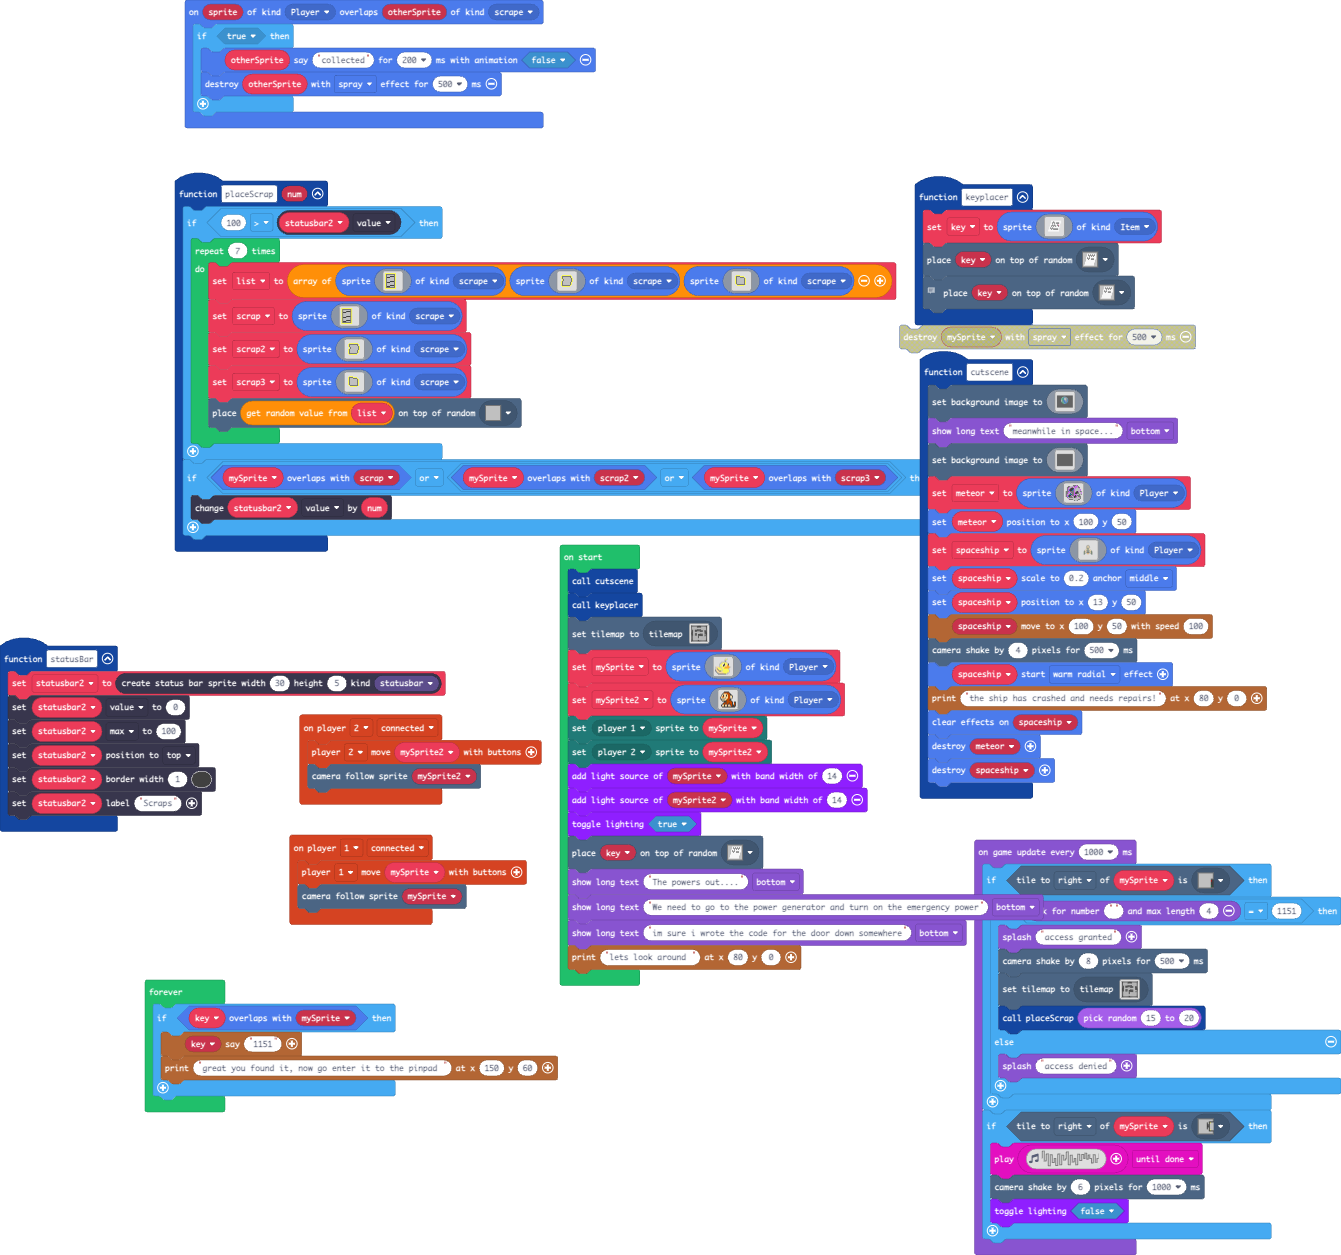
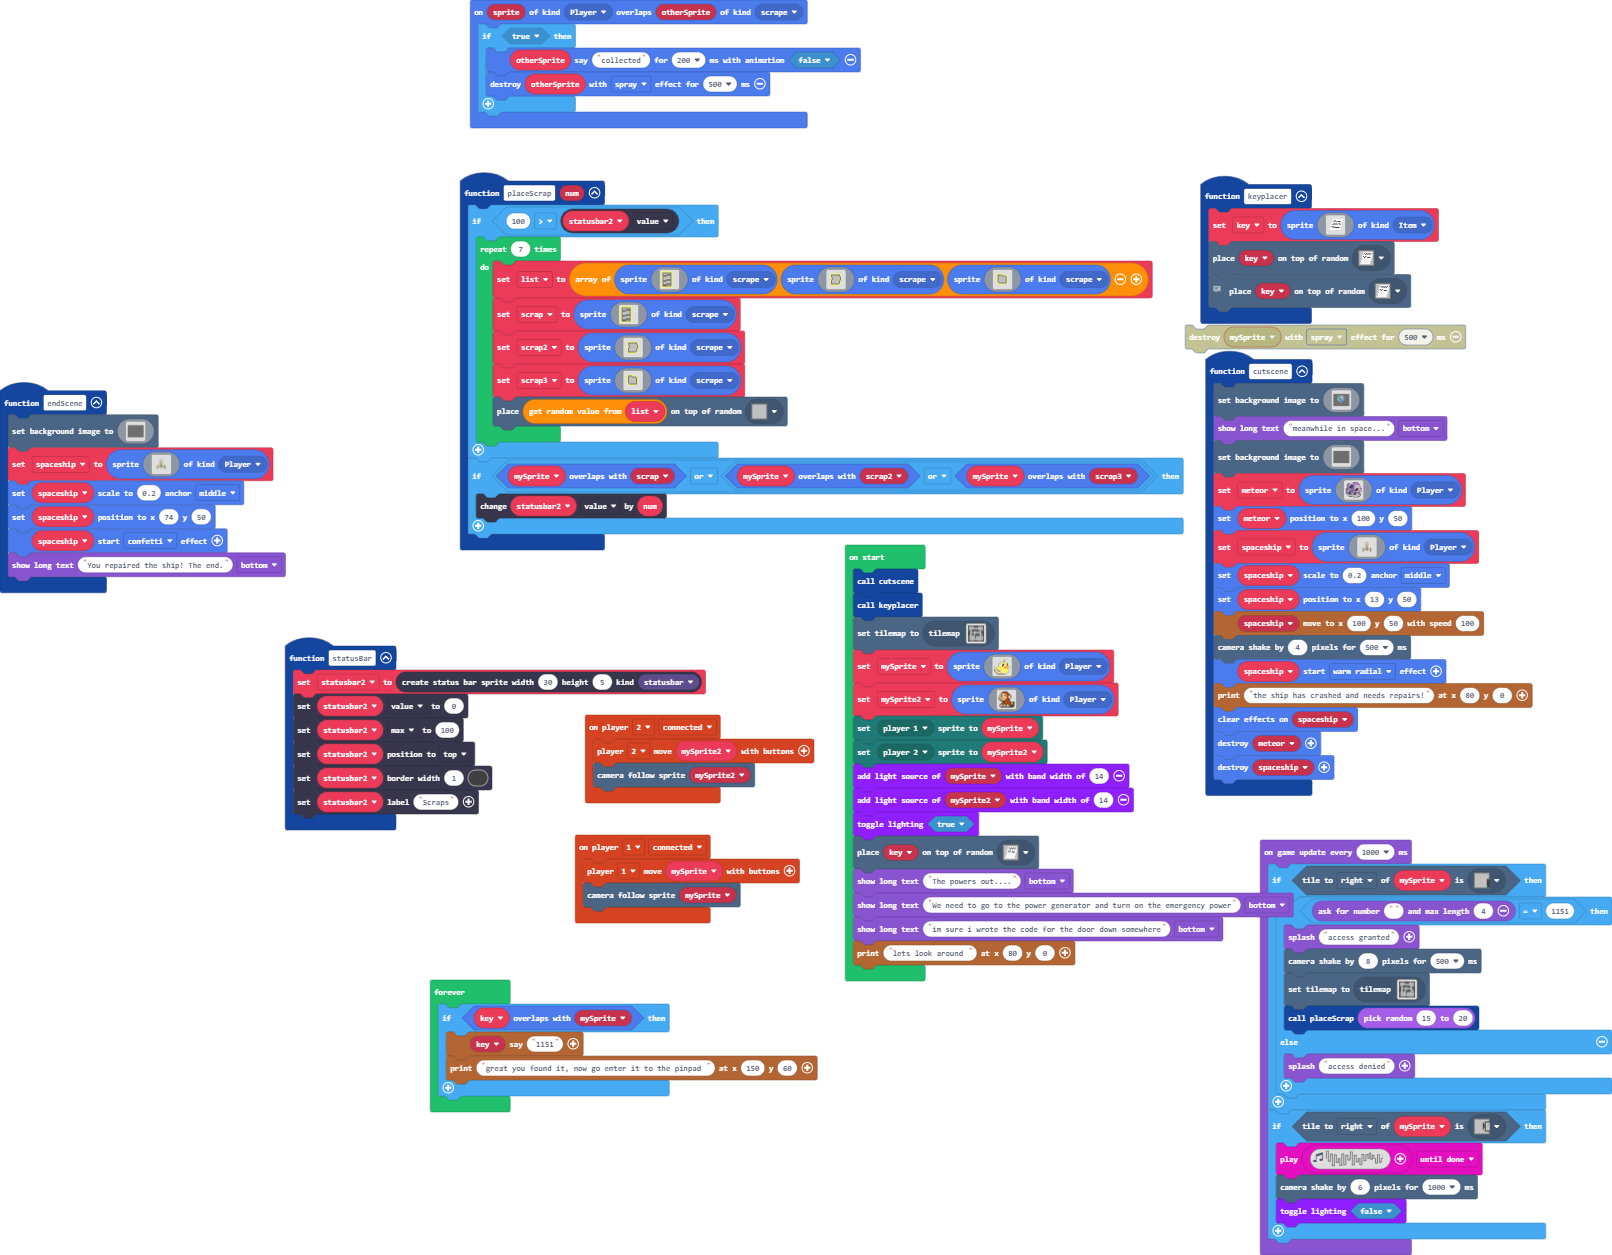
end scene

diff --git a/main.ts b/main.ts
@@ -6,6 +6,14 @@ namespace SpriteKind {
 namespace StatusBarKind {
     export const statusbar = StatusBarKind.create()
 }
+function endScene () {
+    scene.setBackgroundImage(assets.image`space`)
+    spaceship = sprites.create(assets.image`ship`, SpriteKind.Player)
+    spaceship.setScale(0.2, ScaleAnchor.Middle)
+    spaceship.setPosition(74, 50)
+    spaceship.startEffect(effects.confetti)
+    game.showLongText("You repaired the ship! The end.", DialogLayout.Bottom)
+}
 function statusBar () {
     statusbar2 = statusbars.create(30, 5, StatusBarKind.statusbar)
     statusbar2.value = 0
@@ -103,9 +111,9 @@ let scrap3: Sprite = null
 let scrap2: Sprite = null
 let scrap: Sprite = null
 let list: Sprite[] = []
-let spaceship: Sprite = null
 let meteor: Sprite = null
 let statusbar2: StatusBarSprite = null
+let spaceship: Sprite = null
 let key: Sprite = null
 let mySprite2: Sprite = null
 let mySprite: Sprite = null
